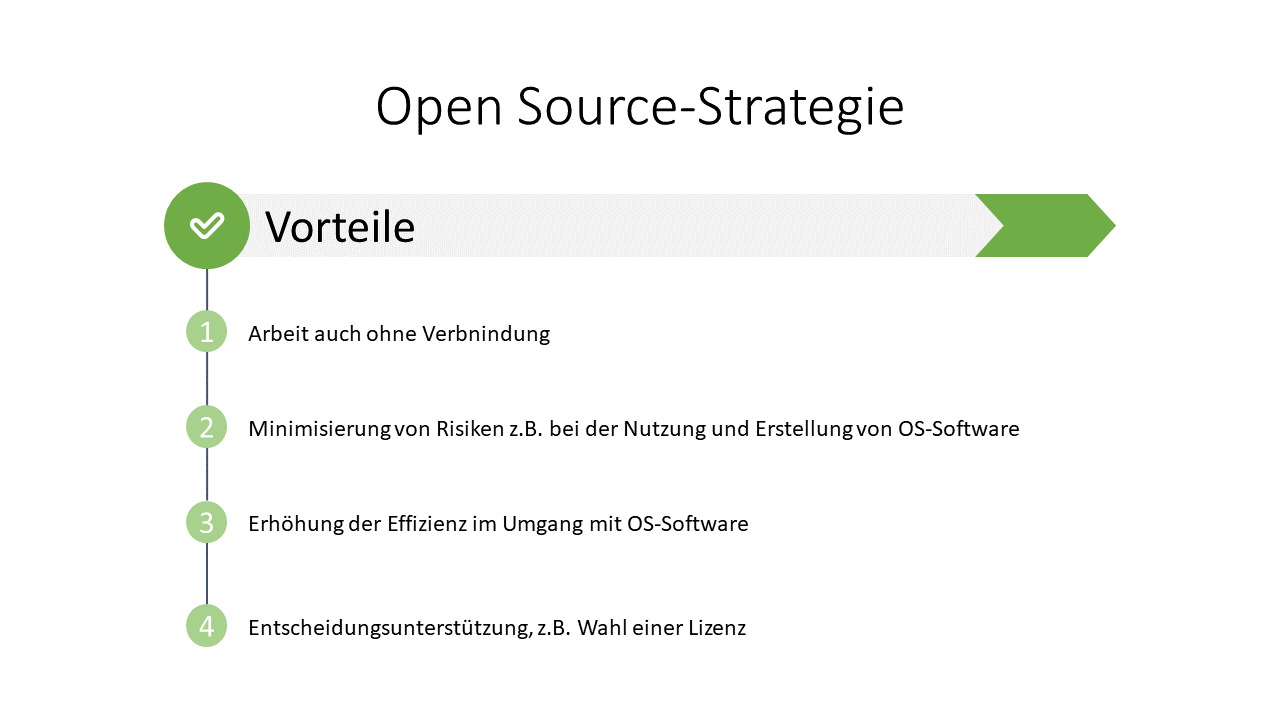
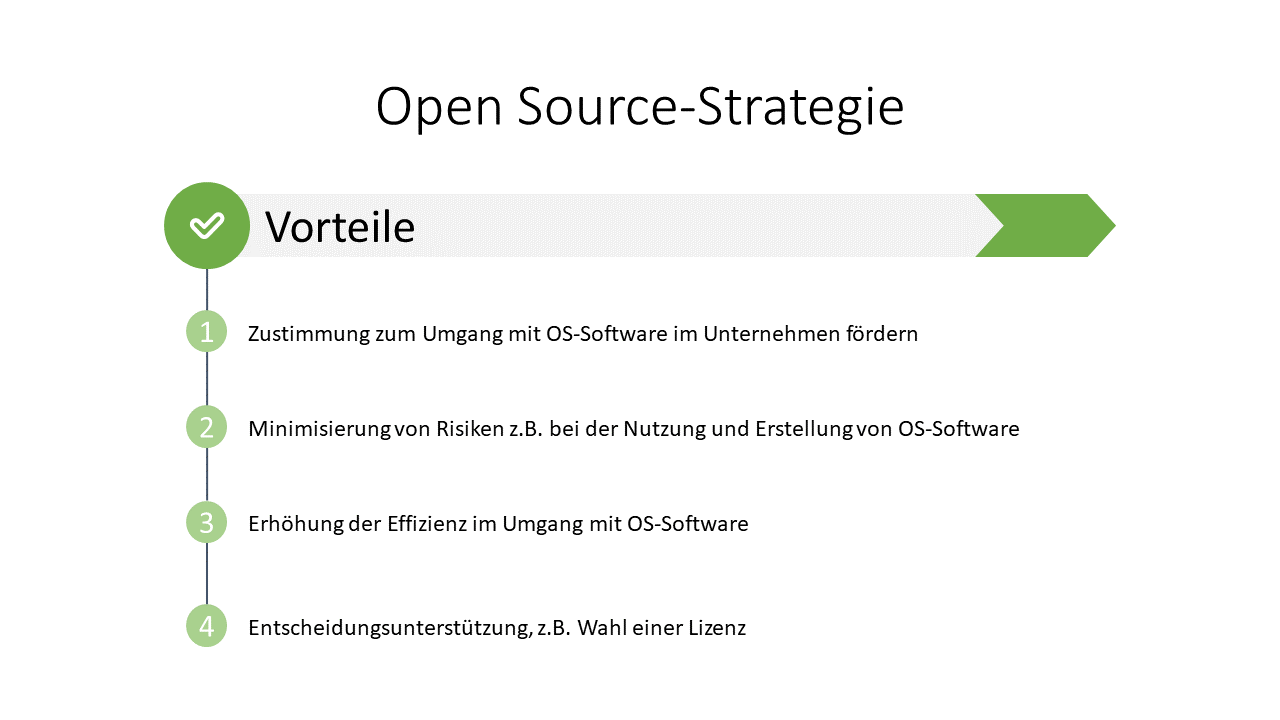
Update Grundlagen slides

Changed region(s): [[0.1875, 0.4583, 0.7188, 0.4889]]

diff --git a/src/content-pages/01 grundlagen/entstehung-und-weiterentwicklung/Folie2.md b/src/content-pages/01 grundlagen/entstehung-und-weiterentwicklung/Folie2.md
@@ -1,0 +1,14 @@
+---
+type: 'slide'
+---
+- Während des Aufbaus des OSS-Projekts sind folgende Dinge zu regeln: 
+
+- Das Projekt benötigt einen einprägsamen Namen, der weltweit in jeder Kultur korrekt verstanden wird. Zudem sollte vorab geprüft werden, ob der Name möglicherweise Namenskonflikte verursachen kann.
+
+- Ein README ist entscheidend, damit alle Teilnehmer auf Anhieb verstehen, worum es in dem Projekt geht, warum es wichtig ist, wie Beiträge geleistet werden können und wo einem bei Fragen geholfen wird.
+
+- Die Angabe einer Lizenz ist für eine erfolgreiche Zusammenarbeit an dem OSS-Projekt essenziell. Sie garantiert, dass andere das Projekt ohne Nebenwirkungen nutzen, modifizieren und kopieren können.
+
+- In der Beitragsrichtlinie wird den Projektteilnehmern erklärt, wie sie zu dem Projekt beitragen können. Dabei geht es bspw. darum, wie auf Bugs hingewiesen werden kann und wie getestet wird.
+
+- Der Verhaltenskodex regelt ein konstruktives Miteinander innerhalb des Projektes. Er beinhaltet sowohl Erwartungen an die Teilnehmer als auch Konsequenzen bei Nichteinhaltung der Regeln. Viele Projekte verwenden den "Contributor Covenant" als fertigen Verhaltenskodex. 

diff --git a/src/content-pages/01 grundlagen/entstehung-und-weiterentwicklung/Folie3.md b/src/content-pages/01 grundlagen/entstehung-und-weiterentwicklung/Folie3.md
@@ -1,0 +1,10 @@
+---
+type: 'slide'
+---
+- Ein veröffentlichtes OSS-Projekt muss der breiten Masse an Entwicklern bekannt gemacht werden, um viele sinnvolle Änderungen zu erfahren. Dafür eignen sich verschiedene Möglichkeiten:
+
+- Es kann eine Beta-Version veröffentlicht werden. Die Nutzer kommen so mit einer unfertigen Version in Kontakt und liefern möglicherweise sinnvolles Feedback. Einige Nutzer verspüren vielleicht auch den Drang, selbst einen Beitrag in Form von Code zu liefern und werden somit Teilnehmer des Projekts.
+
+- Der Link zum Projekt sollte möglichst breit im Internet verstreut werden, um eine große Masse an Personen auf das Projekt aufmerksam zu machen
+
+- Jede in einem Open Source Projekt zu erstellende Software hat einen Zweck und oft ist sie eine Antwort auf ein Problem, das viele Menschen umtreibt. In Foren wie Stack Overflow wird über diese Probleme diskutiert. Durch die Teilnahme an solchen Diskussionen mit Verweis auf das OSS-Projekt, können Entwickler gewonnen werden, die nicht nur für das Thema brennen, sondern möglicherweise sogar schon Vorkenntnisse aus vergleichbaren Projekten mitbringen.

diff --git a/src/content-pages/01 grundlagen/konventionen/Folie3.md b/src/content-pages/01 grundlagen/konventionen/Folie3.md
@@ -1,0 +1,14 @@
+---
+type: 'slide'
+---
+Bei der Initialisierung eines Verhaltenskodex sollten zunächst verschiedene Fragen geklärt werden.
+Wann sollte ein Verhaltenskodex festgelegt werden?
+Idealerweise sollte dieses zum Start des Projekts geschehen, am besten so früh wie möglich.
+Wo gilt er? Hier sollte berücksichtigt werden, in welchen Bereichen dieser gilt z.B. bei Issue und Pull Request oder auch bei Community-Veranstaltungen.
+Für wen gilt der Kodex? Es sollten alle Betroffenen Personenkreis berücksichtigt werden, für die der Kodex gilt. Dazu zählen Community-Mitglieder, Maintainer und Sponsoren.
+Was passiert, wenn jemand gegen ihn verstößt? Es sollten Maßnahmen festgelegt werden, die ergriffen werden, wenn jemand gegen den Kodex verstößt. 
+Im schlimmsten Fall kann dieses zum Ausschluss vom Projekt führen.
+Wie kann jemand Verstöße melden?
+Um einen Verstoß melden zu können, sollte eine Kontaktmöglichkeit eingerichtet werden.
+
+Bekannte Beispiele für einen Verhaltenskodex sind der Contributor Covenant, Django-Verhaltenskodex, oder der Citizen Code of Conduct.

diff --git a/src/content-pages/01 grundlagen/konventionen/Folie5.md b/src/content-pages/01 grundlagen/konventionen/Folie5.md
@@ -1,0 +1,13 @@
+---
+type: 'slide'
+---
+Bei Verstößen gegen den Verhaltenskodex sollten Informationen über den Vorfall gesammelt werden, um diesen zu untersuchen.
+Dabei empfiehlt es sich, jeden Verstoß ernstzunehmen. Dies signalisiert der Community gegenüber den nötigen Respekt, dass diese ernstgenommen werden.
+
+Bei den betroffenen Mitgliedern kann es sich um Wiederholungstäter handeln oder sie verstoßen das erste Mal gegen den Kodex.
+
+Um die Situation besser verstehen zu können, sollte ein gewisse Zeit eingeplant werden, die benötigt wird, um Kommentare zu lesen und Informationen zu sichten.
+
+Wichtig ist es auch, mehrere Perspektiven über Verhalten der Person zu sammeln, die den Vorfall ausgelöst hat.
+
+Unbeteiligte Personen sollten sich nicht in einen Streit hineinziehen lassen, sich nicht durch das Verhalten anderen Personen von ihrer eigentlichen Arbeit ablenken lassen oder sich zu etwas verleiten lassen.

diff --git a/src/content-pages/01 grundlagen/konventionen/Folie6.md b/src/content-pages/01 grundlagen/konventionen/Folie6.md
@@ -1,0 +1,13 @@
+---
+type: 'slide'
+---
+Moderatoren haben das Ziel eine sichere, respektvolle und kollaborative Umgebung zu fördern, die durch eine freundliche aber bestimmte Art umzusetzen ist.
+
+Was sind Maßnahmen, die von Moderatoren ergriffen werden können?
+Moderatoren sollten zunächst die betreffende Person öffentlich verwarnen. Dazu sollte der Kommunikationskanal verwendet werden, in dem das Verhalten auftrat. 
+Es sollte erklärt werden, warum das Verhalten negative Auswirkungen hat.
+
+Moderatoren haben auch die Möglichkeit, auf die betreffende Person privat zuzugehen. Dafür können private Nachrichten als Kommunikationskanal genutzt werden. 
+Es sollte jedoch nie ohne die Erlaubnis anderer Personen jemand bei einer E-Mail mit auf CC gesetzt werden.
+
+Ist keine Lösung zu finden, kann der Moderator eine zeitweise oder dauerhafte Suspendierung vom Projekt aussprechen.

diff --git a/src/content-pages/01 grundlagen/konventionen/page.md b/src/content-pages/01 grundlagen/konventionen/page.md
@@ -1,0 +1,17 @@
+---
+slug: '/grundlagen/konventionen'
+title: 'Konventionen'
+category: 'Grundlagen'
+presentation: 'https://onedrive.live.com/embed?cid=77FF6CBF13D23430&resid=77FF6CBF13D23430%21108898&authkey=ACbML5oDCJmtfj0&em=2&wdAr=1.7777777777777777'
+sorting: 4
+questions:
+    - question: 'Was passiert, wenn nach einem Verstoß keine Lösung gefunden werden kann?'
+      options:
+          - text: 'Der Verursacher wird zeitweise oder dauerhafte vom Projekt suspendiert'
+          - text: 'Der Verursacher muss einen Entschuldigungsbrief schreiben'
+          - text: 'Es passiert gar nichts, der Vorfall ignoriert und zu den Akten gelegt'
+          - text: 'Der Verursacher muss Pizza für die gesamte Community spendieren'
+      correct: [0]
+sources:
+    - url: 'https://opensource.guide/de/code-of-conduct/'
+---

diff --git a/src/content-pages/01 grundlagen/konventionen/Folie2.md b/src/content-pages/01 grundlagen/konventionen/Folie2.md
@@ -1,0 +1,8 @@
+---
+type: 'slide'
+---
+Ein Verhaltenskodex legt die Erwartungen an das Verhalten der Projektteilnehmer fest, die sich an einem Projekt beteiligen möchten.
+Die Nutzung eines solchen Verhaltenskodex trägt zu einer positiveren Atmosphäre innerhalb der Community bei, da dieser Kodex für alle Teilnehmer gilt.
+Der Sinn eines solchen Kodex besteht darin, die Teilnehmer und den Initiator des Projekts zu schützen, in dem ein gewisser Rahmen für das Verhalten vorgegeben wird.
+Durch den Einsatz eines solchen Verhaltenskodex wird ein konstruktives Miteinander gefördert, da sich die Beteiligten an die Vorgaben halten.
+Innerhalb des Verhaltenskodex werden auch Maßnahmen beschrieben, die gegen ein unerwünschtes Verhalten zu ergreifen sind.

diff --git a/src/content-pages/01 grundlagen/kollaborativ/Folie3.md b/src/content-pages/01 grundlagen/kollaborativ/Folie3.md
@@ -1,0 +1,8 @@
+---
+type: 'slide'
+---
+Wie wird Open Source Software entwickelt?
+
+„Die Kathedrale und der Basar“ ist ein Essay von Eric S. Raymond und greift dabei die zwei grundlegenden Entwicklungsmethoden der Open Source Software Entwicklung auf:
+Die Kathedrale steht dabei stellvertretend für einen zentralisierten Ansatz eines Entwicklers beziehungsweise eines kleinen Entwicklerteams, der i. d. R. mit sehr genauer Vorausplanung einhergeht. Die Kathedrale beschreibt somit, eine herkömmliche, genaustens vorausgeplante Entwicklungsweise mit einem definierten Endzustand.
+Demgegenüber ist der Basar als dezentralisierter Ansatz mit frühen und häufigen Freigaben und eine grundsätzliche Offenheit für Ideen und Vorschläge zu stellen. 

diff --git a/src/content-pages/01 grundlagen/konventionen/Folie4.md b/src/content-pages/01 grundlagen/konventionen/Folie4.md
@@ -1,0 +1,13 @@
+---
+type: 'slide'
+---
+Noch vor einem Verstoß sollte geklärt werden, wie der Verhaltenskodex in dem Projekt umgesetzt werden kann.
+
+Dazu gibt es für den Projekt-Initiator und die Community wichtige Gründe.
+Der Projekt-Initiator meint es ernst mit den Maßnahmen. Die Community des Projekts fühlt sich sicherer und ernstgenommen. 
+Es ist für alle am Projekt beteiligten Personen ein fairer und transparenter Prozess.
+
+Einen schnellen und hilfreichen Einstieg kann die Verwendung einer Verhaltenskodex-Vorlage fördern. 
+Das Django’s Enforcement Manual ist eine solche Vorlage, die frei zur Nutzung steht.
+
+Ebenso ist es sinnvoll, für das Projekt in seinem Projektstammverzeichnis eine "CODE_OF_CONDUCT-Datei" anzulegen.

diff --git a/src/content-pages/01 grundlagen/oss-strategie/Folie3.md b/src/content-pages/01 grundlagen/oss-strategie/Folie3.md
@@ -1,0 +1,6 @@
+---
+type: 'slide'
+---
+Insgesamt lassen sich vier Bereiche für das Governance im Rahmen der Open Source Strategie ausmachen. 
+
+Werden neue Open Source Applikationen erstellt, sollte ein Unternehmen einen Rahemn dafür schaffen. Aber auch die Nutzung von Open Source Code zum Erstellen eigener Software, zum Beispiel bei der Verwendung von Software Bibliotheken, muss bewusst erfolgen. Sollen im Unternehmen Contributions an bestehenden Open Source Projekten erfolgen, um diese zum Beispiel besser im Unternehmen einsetzen zu können, kann das auch gesteuert werden. Sollen für die Erstellung von Software Open Source Tools eingesetzt werden, sollte auch das im Unternhemen verfolgt und ggf. bestärkt werden.

diff --git a/src/content-pages/01 grundlagen/lizenzen/page.md b/src/content-pages/01 grundlagen/lizenzen/page.md
@@ -19,4 +19,10 @@ questions:
           - text: 'BSD Lizenz'
           - text: 'Copyright ©'
       correct: [0]
+sources:
+    - url: 'https://www.redhat.com/de/topics/open-source/what-is-open-source#:~:text=Open%20Source%20ist%20ein%20Begriff,nach%20Belieben%20verändern%20und%20verteilen'
+    - url: 'http://www.magjs.de/2012-01/rehm/rehm.html'
+    - url: 'https://www.dev-insider.de/copyleft-oder-permissive-was-darf-es-sein-a-881822/'
+    - url: 'https://opensource.com/law/13/8/motivation-free-software-licensing'
+    - url: 'https://www.gnu.org/licenses/copyleft.de.html'
 ---

diff --git a/src/content-pages/01 grundlagen/lizenzen/Folie3.md b/src/content-pages/01 grundlagen/lizenzen/Folie3.md
@@ -1,0 +1,8 @@
+---
+type: 'slide'
+---
+- Lizenzen müssen es erlauben, die Software frei nutzen, modifizieren und verbreiten bzw. kopieren zu können
+
+- Die GNU General Public License (GPL) ist gemäß ifrOSS die am häufigsten verwendete Lizenz und wird beispielsweise von Linux verwendet. 60 % aller OSS-Projekte verwendet diese Lizenz. Sie erlaubt sowohl die private als auch die kommerzielle Nutzung der Software.
+
+- Sollen zwei OSS-Projekte kombiniert werden, muss darauf geachtet werden, dass ihre beiden Lizenzen miteinander kompatibel sind
